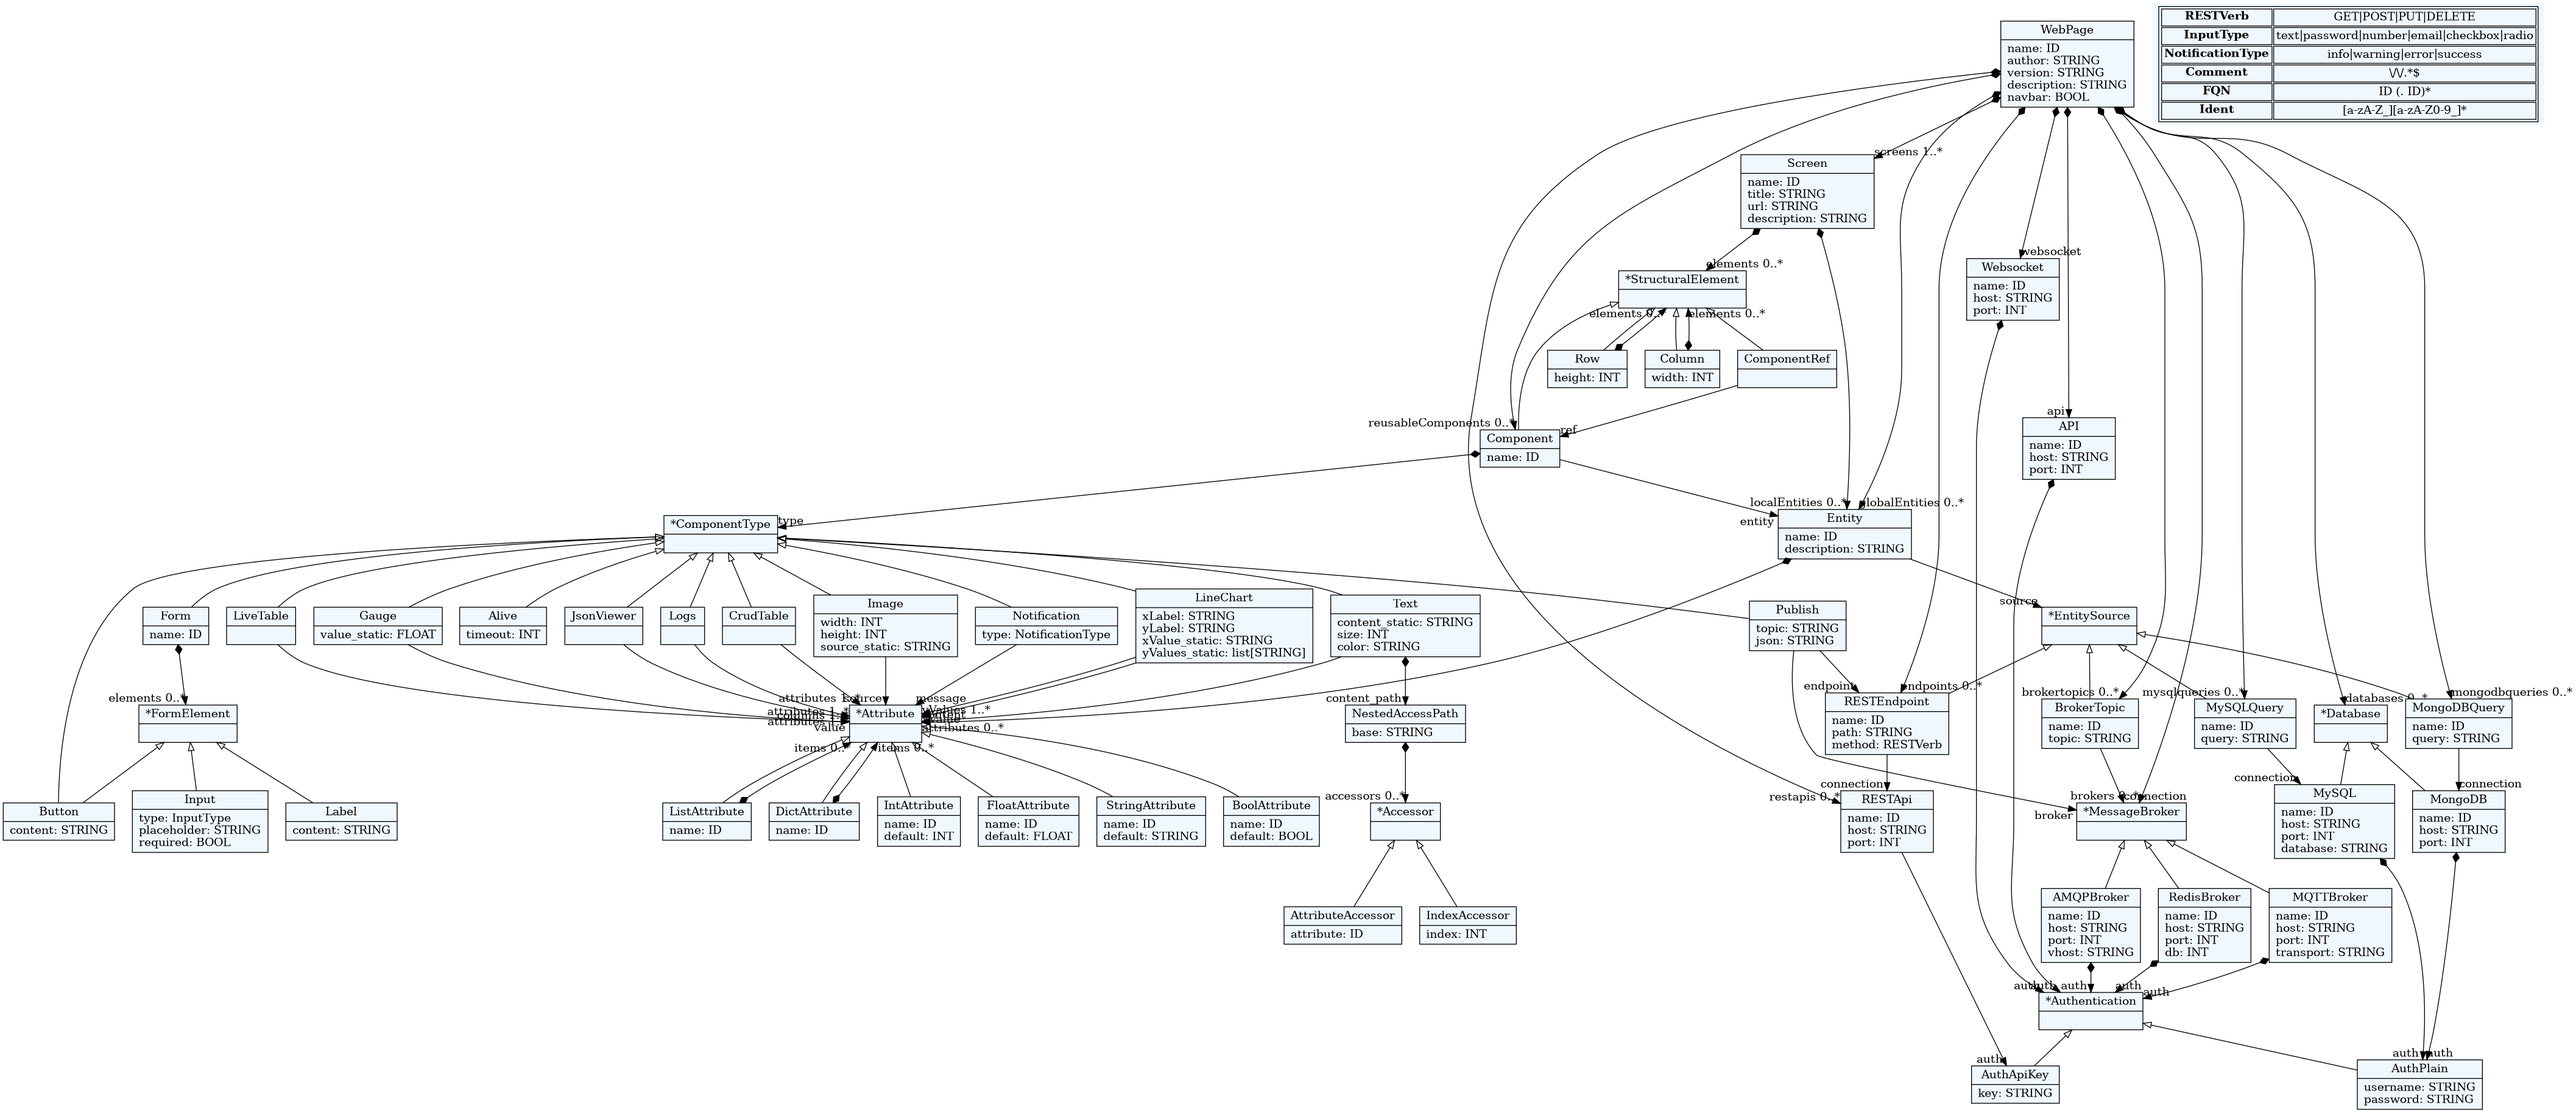
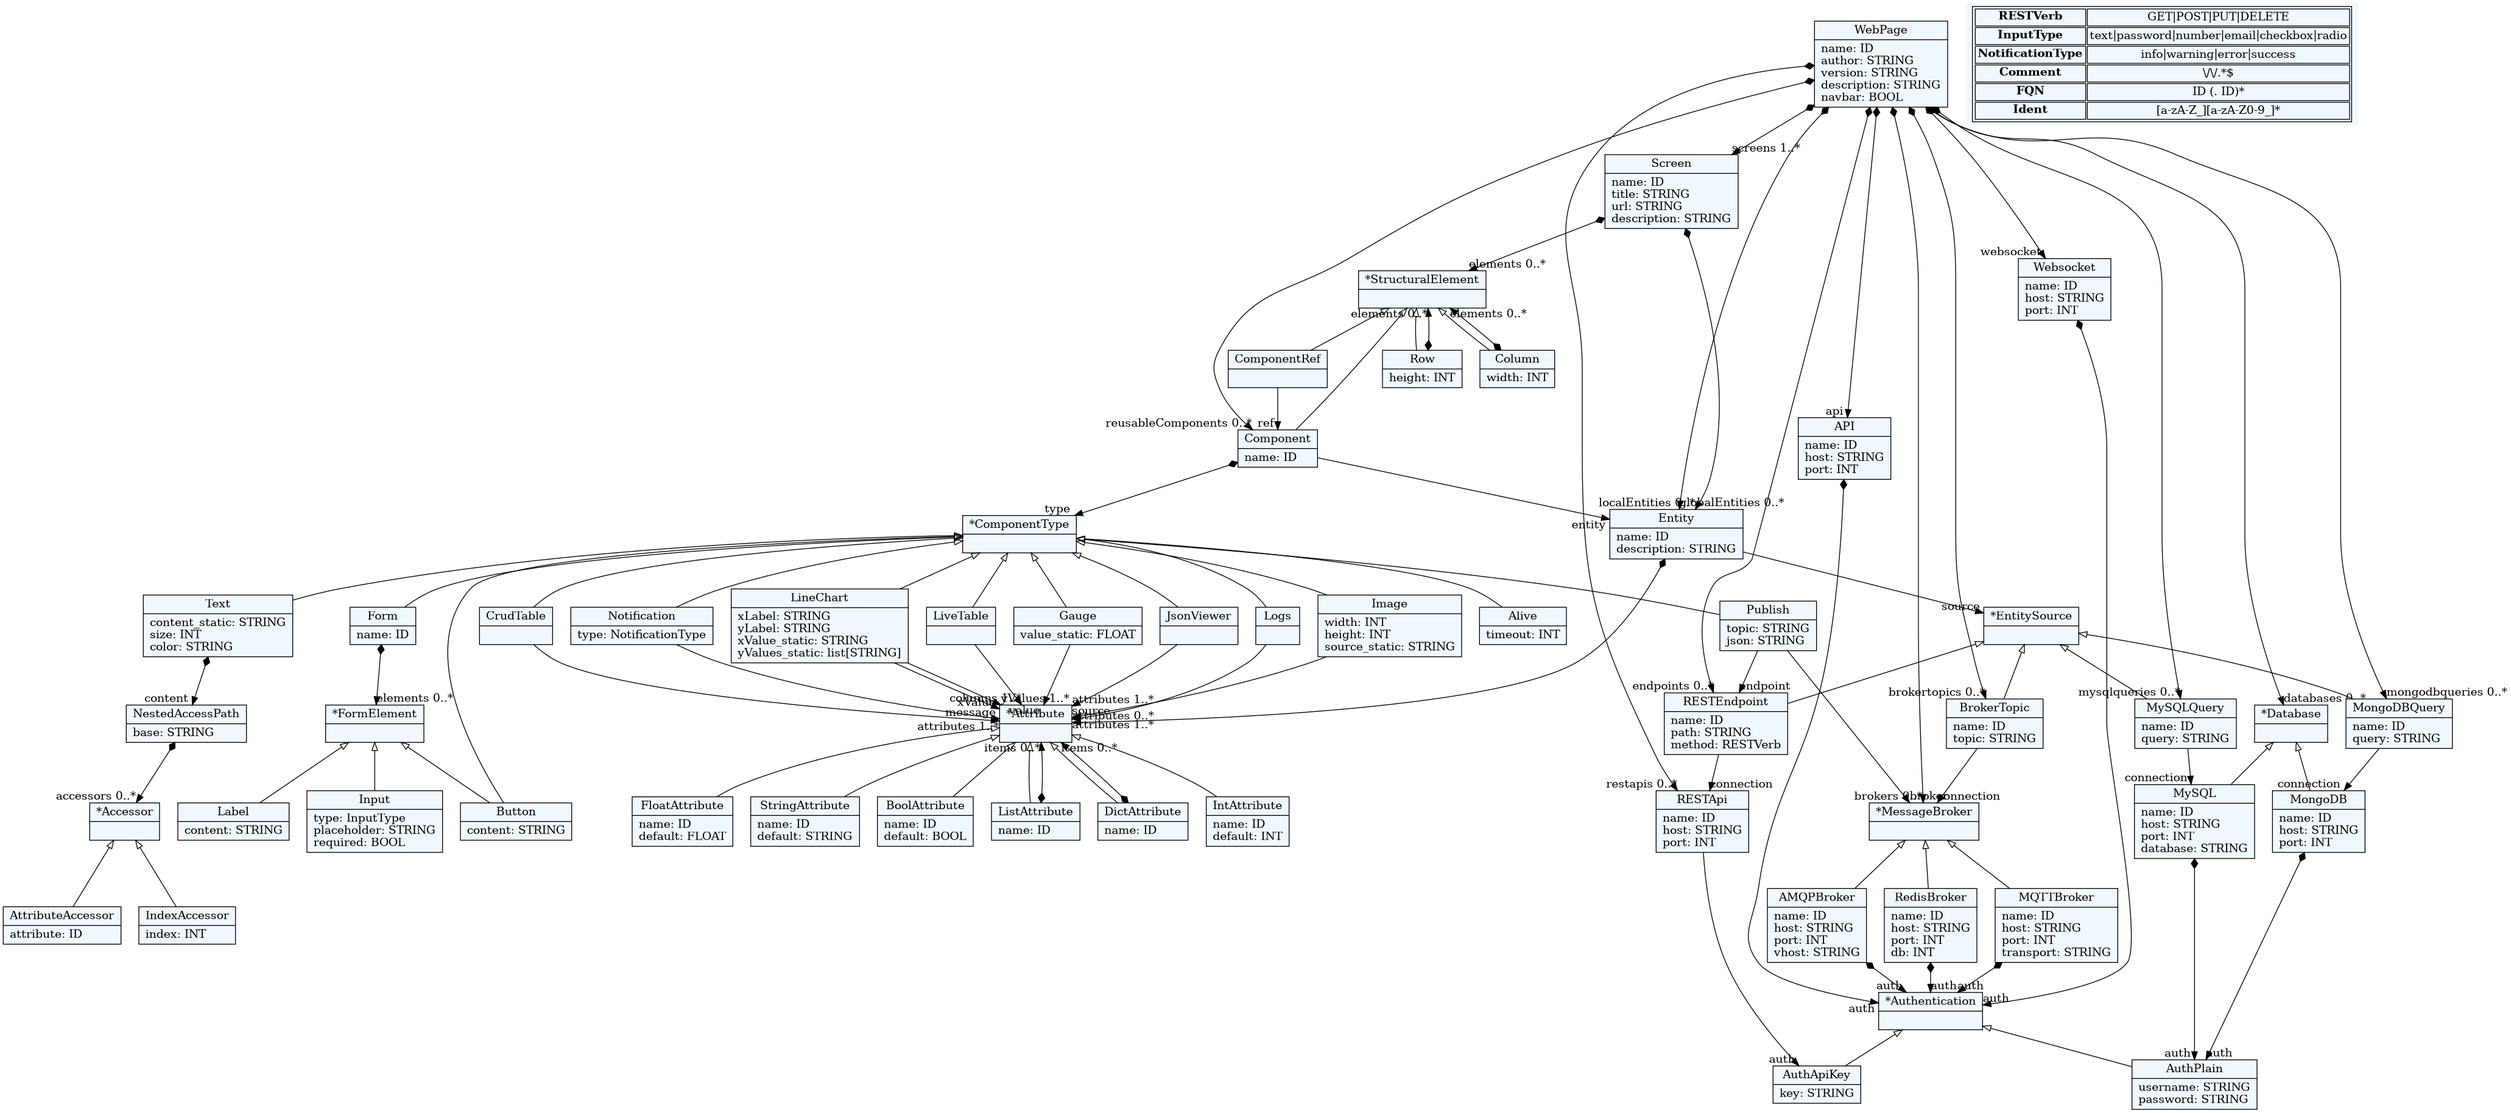
Text working fully with accessing arrays and objects

diff --git a/web_dsl/base/frontend_base/src/components/Text.jsx b/web_dsl/base/frontend_base/src/components/Text.jsx
@@ -1,38 +1,30 @@
 import React, { useState, useContext, useEffect } from "react";
 import { useWebsocket } from "../hooks/useWebsocket";
 import { WebsocketContext } from "../context/WebsocketContext";
-import convertTypeValue from "../utils/convertTypeValue";
 import { toast } from "react-toastify";
 import { fetchValueFromRest, fetchValueFromDB } from "../utils/fetchValues";
 import { IoReload } from "react-icons/io5";
+import { getValueByPath } from "../utils/getValueByPath";
 
 const Text = ({
     topic,
-    attribute,
+    contentPath,
     size = 18,
     color,
     sourceOfContent,
     restData,
     staticContent,
-    dbData,
-    contentPath
+    dbData
 }) => {
     const [content, setContent] = useState("");
-    // const setContentGeneral = (value) => {
-    //     if (indexedAttribute) {
-    //         setContent(value[indexedAttribute.index][indexedAttribute.name]);
-    //     } else {
-    //         setContent(value);
-    //     }
-    // };
     const ws = useContext(WebsocketContext);
 
     const reloadContent = () => {
         if (sourceOfContent === "rest") {
-            fetchValueFromRest(restData, attribute, setContent);
+            fetchValueFromRest(restData, contentPath, setContent);
         }
         if (sourceOfContent === "db") {
-            fetchValueFromDB(dbData, attribute, setContent);
+            fetchValueFromDB(dbData, contentPath, setContent);
         }
     };
 
@@ -42,7 +34,7 @@ const Text = ({
 
     useWebsocket(sourceOfContent === "broker" ? ws : null, topic, (msg) => {
         try {
-            setContent(convertTypeValue(msg[attribute.name], attribute.type));
+            setContent(getValueByPath(msg, contentPath));
         } catch (error) {
             toast.error(
                 "An error occurred while updating value: " + error.message
@@ -62,15 +54,15 @@ const Text = ({
                     <IoReload size={24} />
                 </button>
             )}
-            {sourceOfContent === "static" ? (
-                <h1 style={{ fontSize: `${size}px`, color: `${color}` }}>
-                    {staticContent}
-                </h1>
-            ) : (
-                <h1 style={{ fontSize: `${size}px`, color: `${color}` }}>
-                    {content}
-                </h1>
-            )}
+
+            <h1
+                style={{
+                    ...(size !== 0 && { fontSize: `${size}px` }),
+                    color: color
+                }}
+            >
+                {sourceOfContent === "static" ? staticContent : content}
+            </h1>
         </div>
     );
 };

diff --git a/web_dsl/base/frontend_base/src/utils/fetchValues.js b/web_dsl/base/frontend_base/src/utils/fetchValues.js
@@ -2,16 +2,14 @@ import { toast } from "react-toastify";
 import convertTypeValue from "./convertTypeValue";
 import { proxyRestCall } from "../api/proxyRestCall";
 import { queryDB } from "../api/dbQuery";
+import { getValueByPath } from "../utils/getValueByPath";
 
-export const fetchValueFromRest = async (restData, attribute, setValue) => {
+export const fetchValueFromRest = async (restData, contentPath, setValue) => {
     const { name, path, method, params } = restData;
 
     try {
         const response = await proxyRestCall({ name, path, method, params });
-        const value = convertTypeValue(
-            response[attribute.name],
-            attribute.type
-        );
+        const value = getValueByPath(response, contentPath);
         setValue(value);
     } catch (error) {
         toast.error(
@@ -21,7 +19,7 @@ export const fetchValueFromRest = async (restData, attribute, setValue) => {
     }
 };
 
-export const fetchValueFromDB = async (dbData, attribute, setValue) => {
+export const fetchValueFromDB = async (dbData, contentPath, setValue) => {
     const { connection_name, database, query, collection, filter } = dbData;
 
     try {
@@ -32,11 +30,7 @@ export const fetchValueFromDB = async (dbData, attribute, setValue) => {
             collection,
             filter
         });
-        const responseRow = Array.isArray(response) ? response[0] : response;
-        const value = convertTypeValue(
-            responseRow[attribute.name],
-            attribute.type
-        );
+        const value = getValueByPath(response, contentPath);
         setValue(value);
     } catch (error) {
         toast.error("Error fetching or converting DB value: " + error.message);

diff --git a/web_dsl/base/frontend_base/src/utils/getValueByPath.js b/web_dsl/base/frontend_base/src/utils/getValueByPath.js
@@ -1,0 +1,17 @@
+import { toast } from "react-toastify";
+
+export const getValueByPath = (obj, path) => {
+    try {
+        const result = path.reduce((acc, key) => {
+            if (acc && key in acc) {
+                return acc[key];
+            } else {
+                throw new Error(`Invalid path at key: ${key}`);
+            }
+        }, obj);
+        return result;
+    } catch (error) {
+        toast.error(error.message);
+        return undefined;
+    }
+};

diff --git a/web_dsl/base/backend_base/commlib_client.py b/web_dsl/base/backend_base/commlib_client.py
@@ -42,28 +42,29 @@ class BrokerCommlibClient:
         """Generate a callback for a specific topic."""
 
         def callback(msg):
-            # Retrieve the allowed attributes for the given topic
-            allowed_attributes = self.allowed_topic_attributes.get(topic)
-            if allowed_attributes is None:
-                print(
-                    f"No allowed attributes defined for topic '{topic}'. Message dropped."
-                )
-                return
+            # # Retrieve the allowed attributes for the given topic
+            # allowed_attributes = self.allowed_topic_attributes.get(topic)
+            # if allowed_attributes is None:
+            #     print(
+            #         f"No allowed attributes defined for topic '{topic}'. Message dropped."
+            #     )
+            #     return
 
-            # Filter message to include only allowed keys
-            filtered_msg = {
-                key: value for key, value in msg.items() if key in allowed_attributes
-            }
+            # # Filter message to include only allowed keys
+            # filtered_msg = {
+            #     key: value for key, value in msg.items() if key in allowed_attributes
+            # }
 
-            if not filtered_msg:
-                print(
-                    f"No allowed attributes found in the incoming message for topic '{topic}'."
-                )
-                return
+            # if not filtered_msg:
+            #     print(
+            #         f"No allowed attributes found in the incoming message for topic '{topic}'."
+            #     )
+            #     return
 
             try:
                 # Convert the filtered message to a JSON string with topic as a prefix.
-                json_msg_with_prefix = f'{{"{topic}": {json.dumps(filtered_msg)}}}'
+                # SHOULD BE FILTERED MESSAGE REMOVED IT FOR TESTING!!!
+                json_msg_with_prefix = f'{{"{topic}": {json.dumps(msg)}}}'
             except Exception as e:
                 print(
                     f"Failed to convert filtered message to JSON for topic '{topic}': {e}"

diff --git a/web_dsl/lib/component.py b/web_dsl/lib/component.py
@@ -40,7 +40,9 @@ class ComponentType:
         For example, if the path is "data[0].value", it will be converted to [0, "value"].
         """
         path_array = []
+
         for accessor in path.accessors:
+            print(f"Accessor: {accessor}")
             if hasattr(accessor, "index") and accessor.index is not None:
                 accessor.index = int(accessor.index)
                 path_array.append(accessor.index)
@@ -143,14 +145,13 @@ class Text(ComponentType):
         name="Text",
         content=None,
         content_static=None,
-        content_path=None,
         size=None,
         color="#fff",
     ):
         super().__init__(parent, name)
-        self.content = content
+        if content is not None:
+            self.content = self.format_attribute_path(content)
         self.content_static = content_static
-        self.content_path = self.format_attribute_path(content_path)
         self.size = size
         self.color = color
 

diff --git a/web_dsl/base/backend_base/main.py b/web_dsl/base/backend_base/main.py
@@ -6,7 +6,7 @@ import httpx
 import os
 from dotenv import load_dotenv
 from pydantic import BaseModel
-from typing import Optional
+from typing import Optional, Any
 from fastapi import FastAPI, HTTPException, Security, status
 from fastapi.middleware.cors import CORSMiddleware
 from fastapi.security import APIKeyHeader
@@ -156,7 +156,7 @@ async def main():
 
 class PublishRequest(BaseModel):
     broker: str
-    message: dict
+    message: Any
     topic: str
 
 
